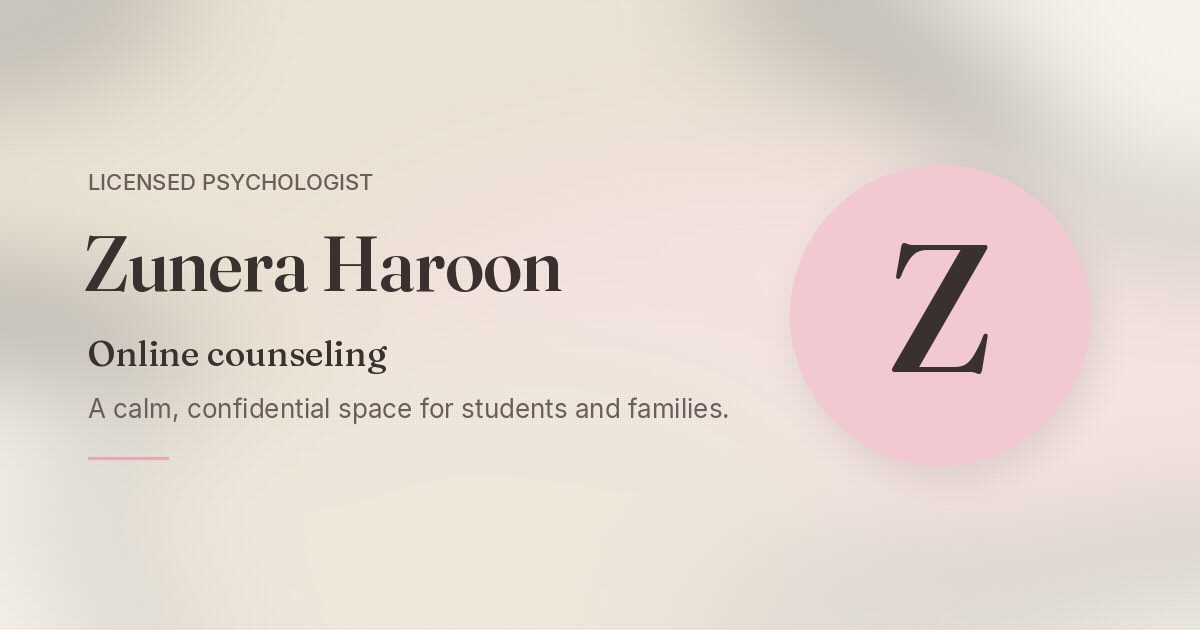
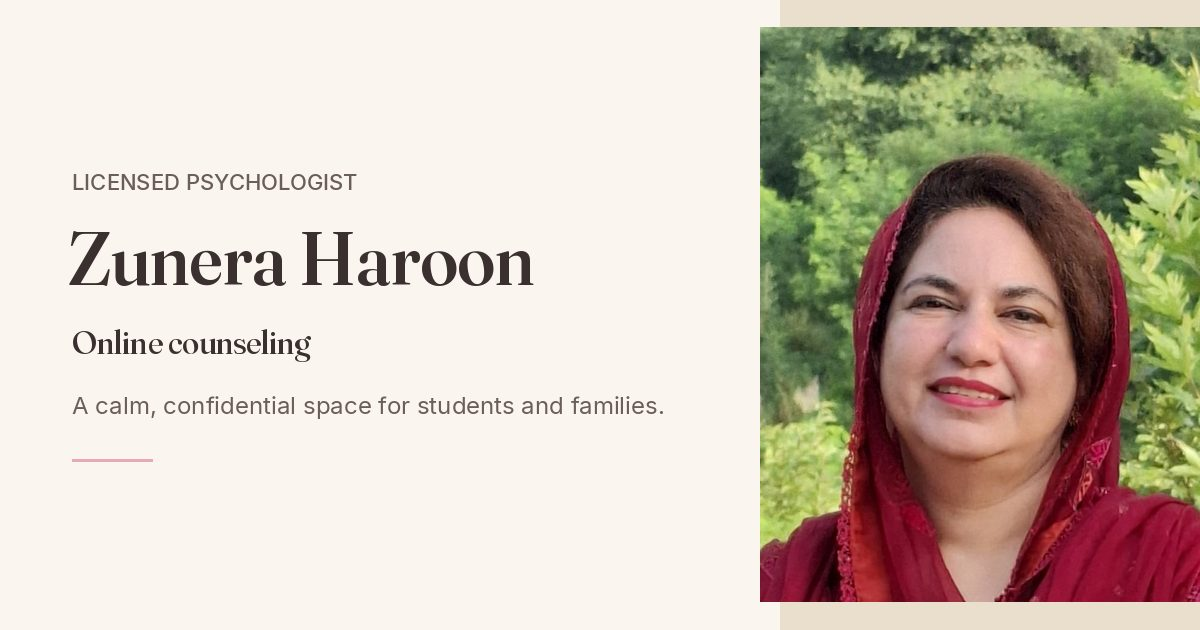
Use the portrait and make booking easier to see.
The calendar drops the session blurb and its scrollbar, WhatsApp actions use WhatsApp green, and a mobile Book now button sits over the page.

diff --git a/index.html b/index.html
@@ -71,7 +71,7 @@
   <header class="site-header" id="top">
     <div class="header-inner">
       <a class="brand" href="#top" data-field="name">Zunera Haroon</a>
-      <a class="btn btn-primary header-wa" data-link="whatsapp" href="https://wa.me/923345516998?text=Assalamu%20alaikum%2C%20I%20would%20like%20to%20book%20a%20counseling%20session.">
+      <a class="btn btn-wa header-wa" data-link="whatsapp" href="https://wa.me/923345516998?text=Assalamu%20alaikum%2C%20I%20would%20like%20to%20book%20a%20counseling%20session.">
         <svg class="wa-glyph" viewBox="0 0 24 24" width="18" height="18" aria-hidden="true">
           <path fill="currentColor" d="M12.04 2C6.58 2 2.15 6.4 2.15 11.83c0 1.74.46 3.43 1.34 4.94L2 22l5.39-1.41a10 10 0 0 0 4.65 1.13h.01c5.46 0 9.9-4.4 9.9-9.84C21.94 6.41 17.5 2 12.04 2zm5.76 14.56c-.24.68-1.4 1.24-1.94 1.32-.5.07-1.13.11-1.82-.11-.42-.14-.95-.31-1.63-.61-2.86-1.24-4.73-4.12-4.87-4.31-.14-.19-1.16-1.54-1.16-2.94 0-1.4.73-2.09 1-2.37.26-.28.57-.35.76-.35h.55c.17 0 .41-.07.64.49.24.57.81 1.97.88 2.11.07.15.12.32.02.51-.09.19-.14.31-.28.48-.14.17-.29.37-.42.5-.14.14-.28.29-.12.56.16.26.71 1.17 1.52 1.89 1.04.93 1.92 1.22 2.19 1.36.27.14.43.12.59-.07.16-.19.67-.78.85-1.05.18-.26.36-.22.6-.13.24.09 1.53.72 1.79.85.26.13.44.2.5.31.07.11.07.64-.17 1.32z"/>
         </svg>
@@ -95,10 +95,9 @@
       <div class="wrap hero-grid">
         <div class="portrait">
           <div class="portrait-shape" aria-hidden="true"></div>
-          <!-- TODO: Replace assets/headshot.jpg and assets/headshot.webp with a real 4:5 portrait, then update this alt text. -->
           <picture>
             <source srcset="assets/headshot.webp" type="image/webp">
-            <img src="assets/headshot.jpg" width="800" height="1000" alt="Monogram placeholder for Zunera Haroon’s portrait. Replace with a photograph." fetchpriority="high">
+            <img src="assets/headshot.jpg" width="800" height="1000" alt="Zunera Haroon, licensed psychologist, smiling outdoors in a red headscarf." fetchpriority="high">
           </picture>
         </div>
         <div class="hero-copy">
@@ -106,7 +105,7 @@
           <h1 id="hero-title">A calm, confidential space to feel heard and move forward.</h1>
           <p class="lede">Compassionate, evidence-based counseling for students and families, offered online at times that suit you.</p>
           <div class="actions">
-            <a class="btn btn-primary" data-link="whatsapp" href="https://wa.me/923345516998?text=Assalamu%20alaikum%2C%20I%20would%20like%20to%20book%20a%20counseling%20session.">
+            <a class="btn btn-wa" data-link="whatsapp" href="https://wa.me/923345516998?text=Assalamu%20alaikum%2C%20I%20would%20like%20to%20book%20a%20counseling%20session.">
               <svg class="wa-glyph" viewBox="0 0 24 24" width="18" height="18" aria-hidden="true">
                 <path fill="currentColor" d="M12.04 2C6.58 2 2.15 6.4 2.15 11.83c0 1.74.46 3.43 1.34 4.94L2 22l5.39-1.41a10 10 0 0 0 4.65 1.13h.01c5.46 0 9.9-4.4 9.9-9.84C21.94 6.41 17.5 2 12.04 2zm5.76 14.56c-.24.68-1.4 1.24-1.94 1.32-.5.07-1.13.11-1.82-.11-.42-.14-.95-.31-1.63-.61-2.86-1.24-4.73-4.12-4.87-4.31-.14-.19-1.16-1.54-1.16-2.94 0-1.4.73-2.09 1-2.37.26-.28.57-.35.76-.35h.55c.17 0 .41-.07.64.49.24.57.81 1.97.88 2.11.07.15.12.32.02.51-.09.19-.14.31-.28.48-.14.17-.29.37-.42.5-.14.14-.28.29-.12.56.16.26.71 1.17 1.52 1.89 1.04.93 1.92 1.22 2.19 1.36.27.14.43.12.59-.07.16-.19.67-.78.85-1.05.18-.26.36-.22.6-.13.24.09 1.53.72 1.79.85.26.13.44.2.5.31.07.11.07.64-.17 1.32z"/>
               </svg>
@@ -150,9 +149,9 @@
           <h2 id="about-title">Hello, I'm <span data-field="name">Zunera Haroon</span></h2>
         </div>
         <div class="prose">
-          <p>I'm a licensed psychologist with more than 16 years of experience across education, clinical counseling and institutional leadership. I currently support students dealing with academic stress, anxiety and depression, helping them build confidence, social skills and healthier ways to cope.</p>
-          <p>My clinical training includes an internship at a drug rehabilitation center in Rawalpindi, specialist training in CBT for substance use, and work with international programs on drug demand reduction. I'm currently pursuing my MPhil in Psychology, with research on culturally adapted CBT for women with substance use disorder.</p>
-          <p>My approach is simple: you set the pace, I listen without judgment, and together we work on what matters to you.</p>
+          <p>I'm a licensed psychologist with <mark>more than 16 years of experience</mark> across education, clinical counseling and institutional leadership. I currently support students dealing with <mark>academic stress, anxiety and depression</mark>, helping them build confidence, social skills and healthier ways to cope.</p>
+          <p>My clinical training includes an internship at a <mark>drug rehabilitation center in Rawalpindi</mark>, specialist training in CBT for substance use, and work with international programs on drug demand reduction. I'm currently pursuing my <mark>MPhil in Psychology</mark>, with research on <mark>culturally adapted CBT</mark> for women with substance use disorder.</p>
+          <p>My approach is simple: <mark>you set the pace</mark>, I listen <mark>without judgment</mark>, and together we work on what matters to you.</p>
         </div>
         <ul class="creds">
           <li>M.Phil Psychology, NUML (in progress)</li>
@@ -270,25 +269,30 @@
       <div class="wrap">
         <div class="section-head center">
           <h2 id="book-title">Book a session</h2>
-          <p class="lede">Pick a time that suits you. Sessions are online, and you'll receive the details by email after booking.</p>
         </div>
         <div class="book-card">
           <!-- TODO: If BOOKING_LINK in script.js changes to another Calendly URL, the iframe src is updated to match. For any other scheduler, replace this src as well. -->
           <iframe
             class="book-frame"
-            src="https://calendly.com/zunera194/session?embed_type=Inline&amp;hide_gdpr_banner=1&amp;background_color=faf6ef&amp;text_color=3a3030&amp;primary_color=e7a9b5"
+            src="https://calendly.com/zunera194/session?embed_type=Inline&amp;hide_gdpr_banner=1&amp;hide_event_type_details=1&amp;background_color=faf6ef&amp;text_color=3a3030&amp;primary_color=e7a9b5"
             title="Book a counseling session with Zunera Haroon"
             width="100%"
-            height="720"
+            height="640"
             loading="lazy"
+            scrolling="no"
             frameborder="0"></iframe>
+        </div>
+        <div class="book-actions">
+          <a class="btn btn-wa" data-link="whatsapp" href="https://wa.me/923345516998?text=Assalamu%20alaikum%2C%20I%20would%20like%20to%20book%20a%20counseling%20session.">
+            <svg class="wa-glyph" viewBox="0 0 24 24" width="20" height="20" aria-hidden="true">
+              <path fill="currentColor" d="M12.04 2C6.58 2 2.15 6.4 2.15 11.83c0 1.74.46 3.43 1.34 4.94L2 22l5.39-1.41a10 10 0 0 0 4.65 1.13h.01c5.46 0 9.9-4.4 9.9-9.84C21.94 6.41 17.5 2 12.04 2zm5.76 14.56c-.24.68-1.4 1.24-1.94 1.32-.5.07-1.13.11-1.82-.11-.42-.14-.95-.31-1.63-.61-2.86-1.24-4.73-4.12-4.87-4.31-.14-.19-1.16-1.54-1.16-2.94 0-1.4.73-2.09 1-2.37.26-.28.57-.35.76-.35h.55c.17 0 .41-.07.64.49.24.57.81 1.97.88 2.11.07.15.12.32.02.51-.09.19-.14.31-.28.48-.14.17-.29.37-.42.5-.14.14-.28.29-.12.56.16.26.71 1.17 1.52 1.89 1.04.93 1.92 1.22 2.19 1.36.27.14.43.12.59-.07.16-.19.67-.78.85-1.05.18-.26.36-.22.6-.13.24.09 1.53.72 1.79.85.26.13.44.2.5.31.07.11.07.64-.17 1.32z"/>
+            </svg>
+            Prefer WhatsApp
+          </a>
         </div>
         <p class="book-fallback">
           Having trouble loading?
           <a data-link="booking" href="https://calendly.com/zunera194/session" target="_blank" rel="noopener noreferrer">Open the booking page<span class="sr-only"> (opens in a new tab)</span></a>
-          <span aria-hidden="true"> · </span>
-          Prefer WhatsApp?
-          <a data-link="whatsapp" href="https://wa.me/923345516998?text=Assalamu%20alaikum%2C%20I%20would%20like%20to%20book%20a%20counseling%20session.">Message me instead</a>
         </p>
       </div>
     </section>
@@ -297,7 +301,7 @@
       <div class="wrap">
         <div class="section-head">
           <h2 id="privacy-title">Your privacy comes first</h2>
-          <p class="lede">Everything you share is kept strictly confidential, within the limits of professional ethics and the law. Sessions are held online in a private, respectful and judgment-free way.</p>
+          <p class="lede">Everything you share is kept <mark>strictly confidential</mark>, within the limits of professional ethics and the law. Sessions are held online in a private, respectful and judgment-free way.</p>
         </div>
         <ul class="badges">
           <li>Confidential</li>
@@ -346,7 +350,7 @@
         <h2 id="cta-title">Ready when you are.</h2>
         <p class="lede">A short message is all it takes to begin.</p>
         <div class="actions">
-          <a class="btn btn-primary" data-link="whatsapp" href="https://wa.me/923345516998?text=Assalamu%20alaikum%2C%20I%20would%20like%20to%20book%20a%20counseling%20session.">
+          <a class="btn btn-wa" data-link="whatsapp" href="https://wa.me/923345516998?text=Assalamu%20alaikum%2C%20I%20would%20like%20to%20book%20a%20counseling%20session.">
             <svg class="wa-glyph" viewBox="0 0 24 24" width="18" height="18" aria-hidden="true">
               <path fill="currentColor" d="M12.04 2C6.58 2 2.15 6.4 2.15 11.83c0 1.74.46 3.43 1.34 4.94L2 22l5.39-1.41a10 10 0 0 0 4.65 1.13h.01c5.46 0 9.9-4.4 9.9-9.84C21.94 6.41 17.5 2 12.04 2zm5.76 14.56c-.24.68-1.4 1.24-1.94 1.32-.5.07-1.13.11-1.82-.11-.42-.14-.95-.31-1.63-.61-2.86-1.24-4.73-4.12-4.87-4.31-.14-.19-1.16-1.54-1.16-2.94 0-1.4.73-2.09 1-2.37.26-.28.57-.35.76-.35h.55c.17 0 .41-.07.64.49.24.57.81 1.97.88 2.11.07.15.12.32.02.51-.09.19-.14.31-.28.48-.14.17-.29.37-.42.5-.14.14-.28.29-.12.56.16.26.71 1.17 1.52 1.89 1.04.93 1.92 1.22 2.19 1.36.27.14.43.12.59-.07.16-.19.67-.78.85-1.05.18-.26.36-.22.6-.13.24.09 1.53.72 1.79.85.26.13.44.2.5.31.07.11.07.64-.17 1.32z"/>
             </svg>
@@ -372,11 +376,7 @@
     </div>
   </footer>
 
-  <a class="float-wa" data-link="whatsapp" href="https://wa.me/923345516998?text=Assalamu%20alaikum%2C%20I%20would%20like%20to%20book%20a%20counseling%20session." aria-label="Message on WhatsApp">
-    <svg viewBox="0 0 24 24" width="28" height="28" aria-hidden="true">
-      <path fill="currentColor" d="M12.04 2C6.58 2 2.15 6.4 2.15 11.83c0 1.74.46 3.43 1.34 4.94L2 22l5.39-1.41a10 10 0 0 0 4.65 1.13h.01c5.46 0 9.9-4.4 9.9-9.84C21.94 6.41 17.5 2 12.04 2zm5.76 14.56c-.24.68-1.4 1.24-1.94 1.32-.5.07-1.13.11-1.82-.11-.42-.14-.95-.31-1.63-.61-2.86-1.24-4.73-4.12-4.87-4.31-.14-.19-1.16-1.54-1.16-2.94 0-1.4.73-2.09 1-2.37.26-.28.57-.35.76-.35h.55c.17 0 .41-.07.64.49.24.57.81 1.97.88 2.11.07.15.12.32.02.51-.09.19-.14.31-.28.48-.14.17-.29.37-.42.5-.14.14-.28.29-.12.56.16.26.71 1.17 1.52 1.89 1.04.93 1.92 1.22 2.19 1.36.27.14.43.12.59-.07.16-.19.67-.78.85-1.05.18-.26.36-.22.6-.13.24.09 1.53.72 1.79.85.26.13.44.2.5.31.07.11.07.64-.17 1.32z"/>
-    </svg>
-  </a>
+  <a class="float-book js-book" href="#book">Book now</a>
   <script src="script.js"></script>
 </body>
 </html>

diff --git a/styles.css b/styles.css
@@ -7,6 +7,8 @@
   --pink-deep: #e7a9b5;
   --ink: #3a3030;
   --ink-soft: #6b5e5a;
+  --wa: #25d366;
+  --wa-deep: #1ebe5a;
   --header-h: 120px;
   --content: 1120px;
   --serif: "Fraunces", "Iowan Old Style", Palatino, "Palatino Linotype", "Times New Roman", serif;
@@ -304,12 +306,13 @@ h3 {
   touch-action: manipulation;
 }
 
-.btn-primary {
-  background: var(--pink);
+.btn-wa {
+  background: var(--wa);
+  color: var(--ink);
 }
 
-.btn-primary:hover {
-  background: var(--pink-deep);
+.btn-wa:hover {
+  background: var(--wa-deep);
 }
 
 .btn-outline {
@@ -333,7 +336,8 @@ h3 {
 }
 
 .section {
-  padding: 64px 20px;
+  padding: 28px 20px 32px;
+  border-top: 1px solid var(--beige-deep);
 }
 
 main section[id] {
@@ -341,12 +345,13 @@ main section[id] {
 }
 
 .hero {
-  padding: 28px 20px 64px;
+  padding: 16px 20px 28px;
+  border-top: 0;
 }
 
 .hero-grid {
   display: grid;
-  gap: 36px;
+  gap: 24px;
   align-items: center;
 }
 
@@ -440,7 +445,7 @@ main section[id] {
 }
 
 .section-head {
-  margin-bottom: 28px;
+  margin-bottom: 16px;
 }
 
 .section-head h2 {
@@ -455,8 +460,19 @@ main section[id] {
   margin-top: 1em;
 }
 
+mark {
+  background-color: transparent;
+  color: inherit;
+  background-image: linear-gradient(var(--pink), var(--pink));
+  background-repeat: no-repeat;
+  background-size: 100% 0.62em;
+  background-position: 0 82%;
+  -webkit-box-decoration-break: clone;
+  box-decoration-break: clone;
+}
+
 .creds {
-  margin-top: 36px;
+  margin-top: 20px;
   padding: 24px 22px;
   display: grid;
   gap: 14px;
@@ -572,10 +588,24 @@ main section[id] {
 .book-frame {
   display: block;
   width: 100%;
-  height: 900px;
+  height: 700px;
   border: 0;
   border-radius: 16px;
   background: var(--cream);
+  overflow: hidden;
+}
+
+.book-actions {
+  display: flex;
+  justify-content: center;
+  margin-top: 16px;
+}
+
+.book-actions .btn {
+  width: min(100%, 420px);
+  min-height: 52px;
+  padding: 14px 22px;
+  font-size: 1.05rem;
 }
 
 .book-fallback {
@@ -755,7 +785,7 @@ main section[id] {
   border: 0;
 }
 
-.float-wa {
+.float-book {
   display: none;
 }
 
@@ -795,33 +825,39 @@ main section[id] {
 
 @media (min-width: 640px) {
   .book-frame {
-    height: 720px;
+    height: 640px;
   }
 
   .hero {
-    padding-top: 40px;
+    padding-top: 28px;
   }
 }
 
 @media (max-width: 719px) {
-  .float-wa {
-    display: grid;
-    place-items: center;
+  .float-book {
+    display: inline-flex;
+    align-items: center;
+    justify-content: center;
     position: fixed;
     z-index: 35;
     right: calc(16px + env(safe-area-inset-right));
     bottom: calc(16px + env(safe-area-inset-bottom));
-    width: 56px;
-    height: 56px;
-    border-radius: 50%;
+    min-height: 48px;
+    padding: 12px 22px;
+    border-radius: 16px;
     background: var(--pink);
-    color: #fff;
-    box-shadow: 0 8px 22px rgba(58, 48, 48, 0.1);
+    color: var(--ink);
+    font-weight: 500;
     text-decoration: none;
+    box-shadow: 0 8px 22px rgba(58, 48, 48, 0.12);
   }
 
-  .float-wa:hover {
+  .float-book:hover {
     background: var(--pink-deep);
+  }
+
+  .float-book.is-hidden {
+    display: none;
   }
 
   .site-footer {
@@ -831,11 +867,11 @@ main section[id] {
 
 @media (min-width: 768px) {
   .section {
-    padding: 96px 32px;
+    padding: 40px 32px;
   }
 
   .hero {
-    padding: 56px 32px 104px;
+    padding: 28px 32px 36px;
   }
 
   .site-footer {
@@ -939,7 +975,7 @@ main section[id] {
 }
 
 @media print {
-  .float-wa,
+  .float-book,
   .menu-toggle,
   .header-wa {
     display: none !important;

diff --git a/script.js b/script.js
@@ -91,17 +91,30 @@ const CONFIG = {
         frame.src =
           CONFIG.BOOKING_LINK +
           join +
-          "embed_type=Inline&hide_gdpr_banner=1&background_color=faf6ef&text_color=3a3030&primary_color=e7a9b5";
+          "embed_type=Inline&hide_gdpr_banner=1&hide_event_type_details=1&background_color=faf6ef&text_color=3a3030&primary_color=e7a9b5";
       }
     }
   }
 
+  const bookSection = document.getElementById("book");
   if (!bookingReady) {
     document.querySelectorAll(".js-book").forEach(function (el) {
       el.hidden = true;
     });
-    const bookSection = document.getElementById("book");
     if (bookSection) bookSection.hidden = true;
+  }
+
+  const floatBook = document.querySelector(".float-book");
+  if (floatBook && bookSection && !bookSection.hidden && "IntersectionObserver" in window) {
+    const floatObserver = new IntersectionObserver(
+      function (entries) {
+        entries.forEach(function (entry) {
+          floatBook.classList.toggle("is-hidden", entry.isIntersecting && entry.intersectionRatio > 0.2);
+        });
+      },
+      { threshold: [0, 0.2, 0.45] }
+    );
+    floatObserver.observe(bookSection);
   }
 
   const ld = document.getElementById("ld-json");

diff --git a/README.md b/README.md
@@ -31,14 +31,14 @@ Two answers in the FAQ, and the crisis line in the footer, are still written in 
 
 ## Swap the headshot
 
-The portrait is a monogram stand-in, not a photograph.
+The current portrait is the outdoor photograph, cropped to 4:5. To use a different one:
 
 1. Use a vertical photo, ratio 4:5 (800×1000 works well).
 2. Replace both files. Browsers load the WebP first:
    - `assets/headshot.jpg`
    - `assets/headshot.webp`
 3. Keep the photograph under 150 KB.
-4. In `index.html`, update the `alt` text on that image so it describes the real photo.
+4. In `index.html`, update the `alt` text on that image so it describes the photo.
 
 [Squoosh](https://squoosh.app) can export both JPG and WebP in the browser. Optional: replace `assets/og-image.jpg` (1200×630) when you want a different image in link previews.
 
@@ -84,8 +84,8 @@ After it is live, set `SITE_URL` in `script.js` to that address.
 - [ ] **Session length** — FAQ answer is `[ADD SESSION LENGTH, e.g. 45 to 60 minutes]`
 - [ ] **Fees** — FAQ answer is `[ADD FEES OR 'Please message me for details']`
 - [ ] **Local crisis helpline** — footer line `[ADD A VERIFIED LOCAL CRISIS HELPLINE]`
-- [ ] **Portrait photograph** — replace `assets/headshot.jpg` and `assets/headshot.webp`, then the alt text
-- [ ] **Share image** — `assets/og-image.jpg` is a branded placeholder (1200×630), not a photo
+- [x] **Portrait photograph** — using the outdoor portrait in `assets/headshot.jpg` and `assets/headshot.webp`
+- [x] **Share image** — `assets/og-image.jpg` includes that portrait
 - [ ] **Analytics** — the commented block in `<head>` is empty on purpose
 
 `BOOKING_LINK` is already set to `https://calendly.com/zunera194/session`. Clear it only if the calendar should come off the page.
